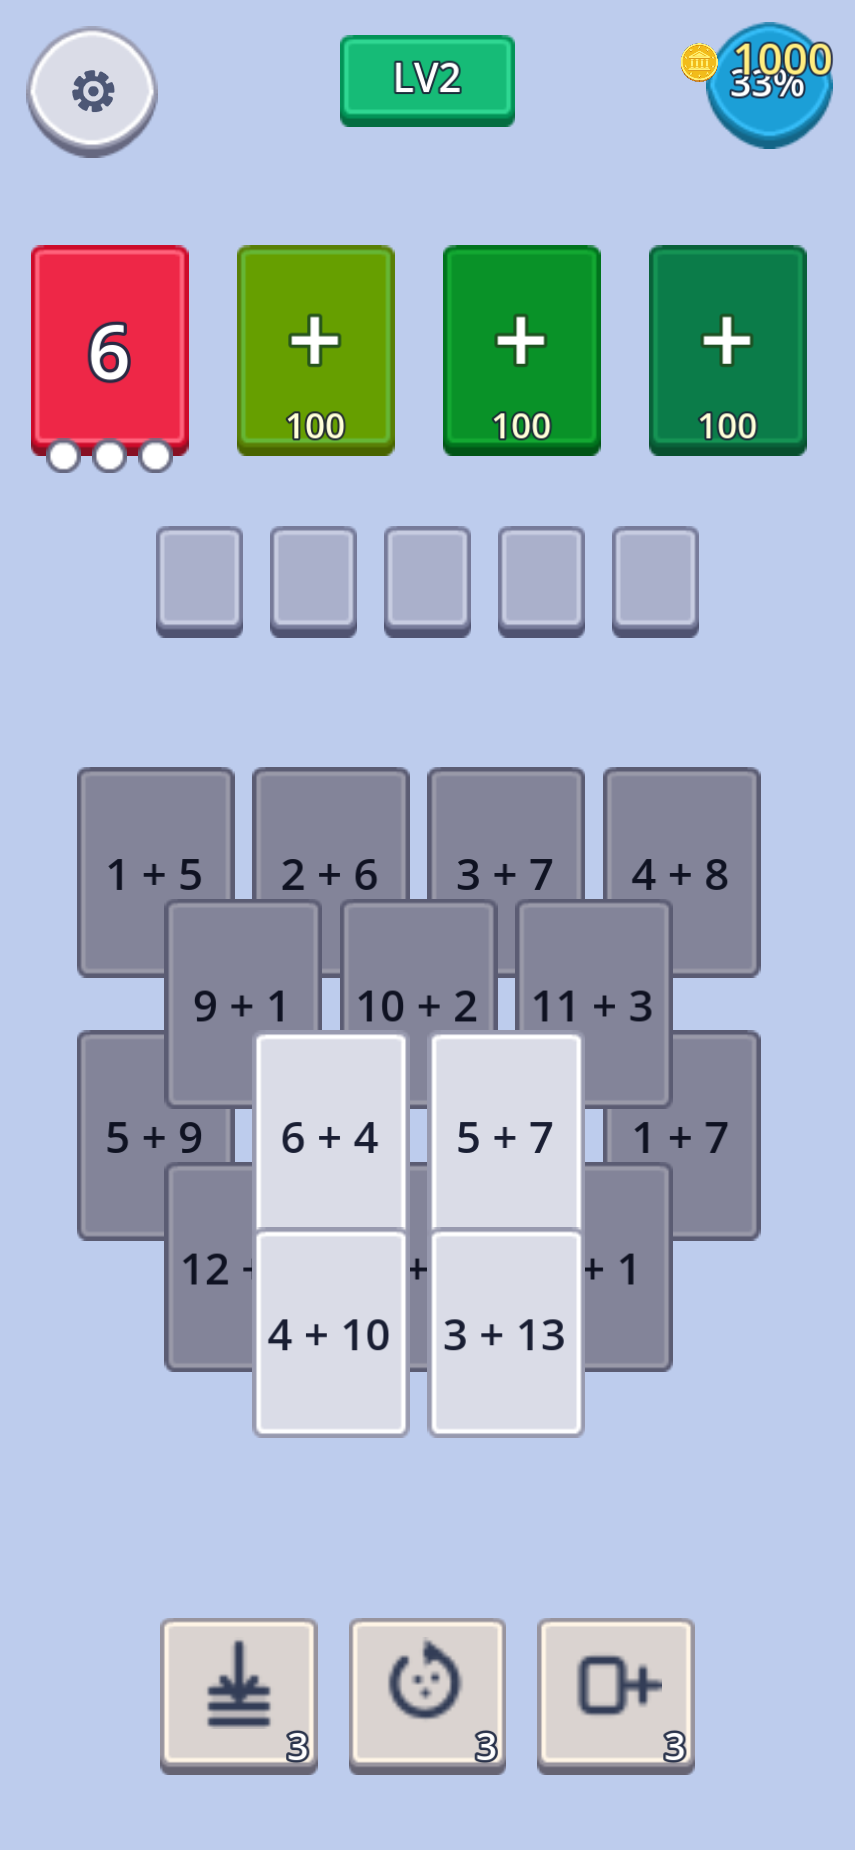
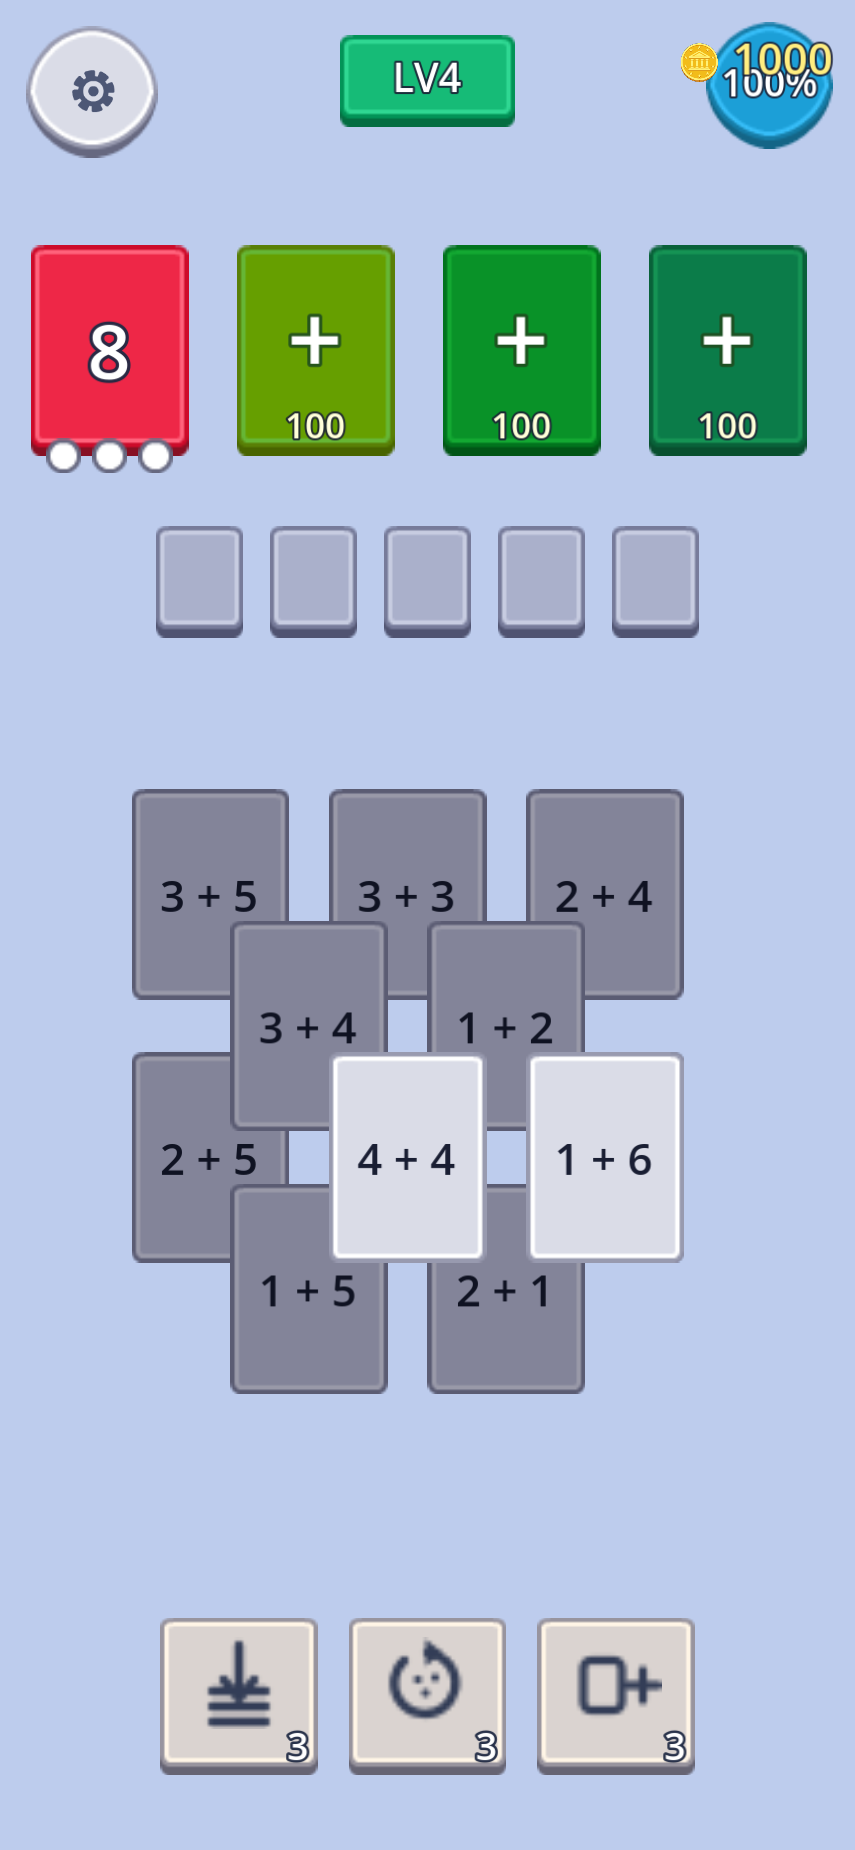
fix: always show Reset Inventory button in settings
The debug Reset Inventory button was gated behind OS.is_debug_build(), so it
was hidden in release exports (on-device builds). Per boss request, always
build it (every build) so it's usable on device.

- pause_menu.gd: drop the OS.is_debug_build() gate; the button always shares
  the Reset Tutorial row.
- integration test: assert the button is always present (was: gated to debug).
- refresh QA evidence screenshots + doc.

diff --git a/production/qa/evidence/debug-reset-inventory.md b/production/qa/evidence/debug-reset-inventory.md
@@ -40,9 +40,9 @@ save. Console confirms the end state: `coins=1000 picker=3 reshuffle=3 extra=3`.
 
 ## Behaviour / wiring
 
-- The button is built **only in debug builds** (`OS.is_debug_build()`), so it
-  never appears in a release export; in a release build the "Reset Tutorial"
-  button keeps the full row width. (`scenes/ui/pause_menu.gd`)
+- The button is **always shown** (every build, including release on device) per
+  boss request, sharing the row with "Reset Tutorial". It is not gated behind
+  `OS.is_debug_build()`. (`scenes/ui/pause_menu.gd`)
 - `PauseMenu` owns no state — it emits `debug_reset_pressed`; `main.gd` handles it
   via `_on_debug_reset`, calling `WalletService.debug_set_inventory(1000, 3)`
   (constants `DEBUG_RESET_COINS` / `DEBUG_RESET_BOOSTERS`) and refreshing the coin
@@ -59,5 +59,5 @@ save. Console confirms the end state: `coins=1000 picker=3 reshuffle=3 extra=3`.
   `booster_stock_changed` per buff, and clamps coins to the wallet cap.
 - `tests/integration/main_booster_flow_test.gd` (2 new integration tests,
   **BLOCKING**): pressing the real pause-menu button end-to-end resets coins +
-  every buff and updates the coin HUD label; and the button is gated to debug
-  builds (`OS.is_debug_build()`).
+  every buff and updates the coin HUD label; and the button is present in the
+  pause menu (always shown, every build).